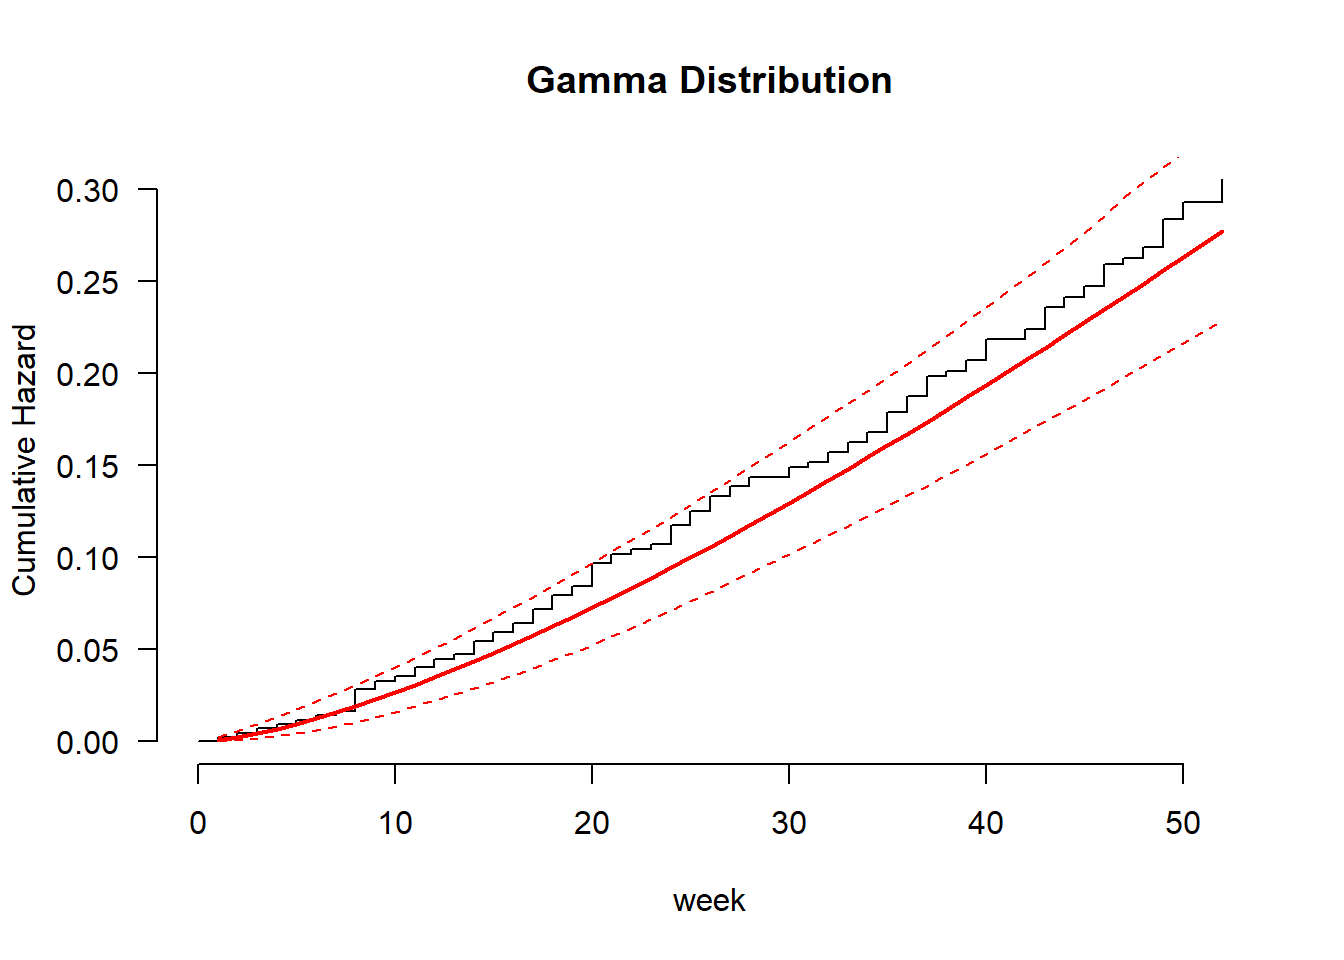
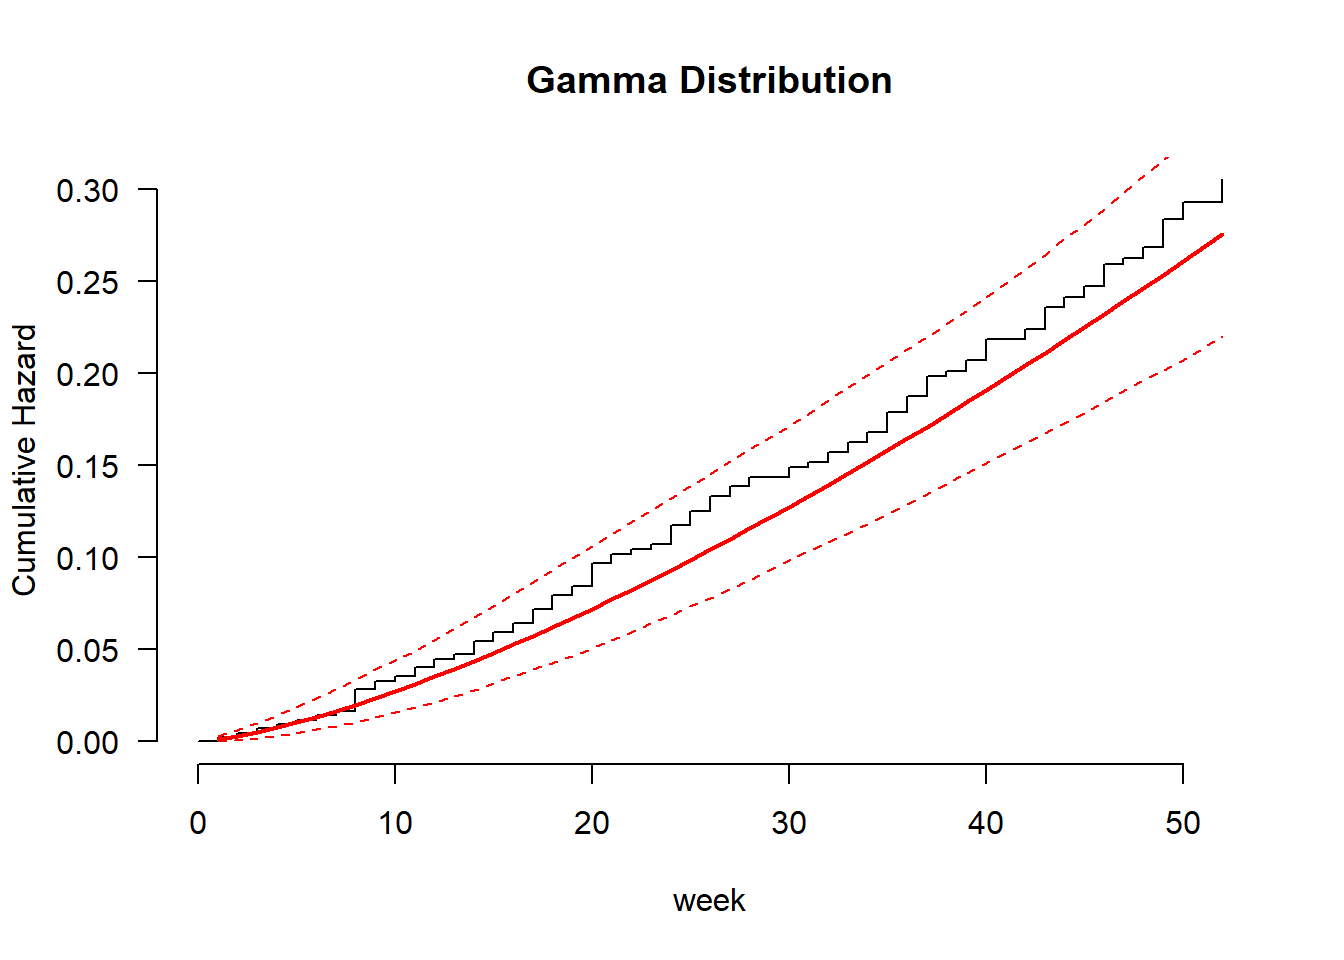
Updating AFT for Generalized Gamma

diff --git a/docs/accelerated-failure-time-models.html b/docs/accelerated-failure-time-models.html
@@ -23,7 +23,7 @@
 <meta name="author" content="Susan Simmons" />
 
 
-<meta name="date" content="2026-01-09" />
+<meta name="date" content="2026-01-14" />
 
   <meta name="viewport" content="width=device-width, initial-scale=1" />
   <meta name="apple-mobile-web-app-capable" content="yes" />
@@ -265,7 +265,7 @@ code span.wa { color: #60a0b0; font-weight: bold; font-style: italic; } /* Warni
 <span id="cb8-3"><a href="accelerated-failure-time-models.html#cb8-3" tabindex="-1"></a><span class="fu">plot</span>(recid.aft.e, <span class="at">type =</span> <span class="st">&quot;cumhaz&quot;</span>, <span class="at">ci =</span> <span class="cn">TRUE</span>, <span class="at">conf.int =</span> <span class="cn">FALSE</span>, <span class="at">las =</span> <span class="dv">1</span>, <span class="at">bty =</span> <span class="st">&quot;n&quot;</span>,</span>
 <span id="cb8-4"><a href="accelerated-failure-time-models.html#cb8-4" tabindex="-1"></a>     <span class="at">xlab =</span> <span class="st">&quot;week&quot;</span>, <span class="at">ylab =</span> <span class="st">&quot;Cumulative Hazard&quot;</span>, <span class="at">main =</span> <span class="st">&quot;Exponential Distribution&quot;</span>)</span></code></pre></div>
 <p><img src="bookdownproj_files/figure-html/AFT-2.png" width="672" /></p>
-<div class="sourceCode" id="cb9"><pre class="sourceCode r"><code class="sourceCode r"><span id="cb9-1"><a href="accelerated-failure-time-models.html#cb9-1" tabindex="-1"></a>recid.aft.g <span class="ot">&lt;-</span> <span class="fu">flexsurvreg</span>(<span class="fu">Surv</span>(week, arrest) <span class="sc">~</span> fin <span class="sc">+</span> age <span class="sc">+</span> race <span class="sc">+</span> wexp <span class="sc">+</span> mar <span class="sc">+</span> paro <span class="sc">+</span> prio, <span class="at">data =</span> recid, <span class="at">dist =</span> <span class="st">&quot;gamma&quot;</span>)</span>
+<div class="sourceCode" id="cb9"><pre class="sourceCode r"><code class="sourceCode r"><span id="cb9-1"><a href="accelerated-failure-time-models.html#cb9-1" tabindex="-1"></a>recid.aft.g <span class="ot">&lt;-</span> <span class="fu">flexsurvreg</span>(<span class="fu">Surv</span>(week, arrest) <span class="sc">~</span> fin <span class="sc">+</span> age <span class="sc">+</span> race <span class="sc">+</span> wexp <span class="sc">+</span> mar <span class="sc">+</span> paro <span class="sc">+</span> prio, <span class="at">data =</span> recid, <span class="at">dist =</span> <span class="st">&quot;gengamma&quot;</span>)</span>
 <span id="cb9-2"><a href="accelerated-failure-time-models.html#cb9-2" tabindex="-1"></a></span>
 <span id="cb9-3"><a href="accelerated-failure-time-models.html#cb9-3" tabindex="-1"></a><span class="fu">plot</span>(recid.aft.g, <span class="at">type =</span> <span class="st">&quot;cumhaz&quot;</span>, <span class="at">ci =</span> <span class="cn">TRUE</span>, <span class="at">conf.int =</span> <span class="cn">FALSE</span>, <span class="at">las =</span> <span class="dv">1</span>, <span class="at">bty =</span> <span class="st">&quot;n&quot;</span>,</span>
 <span id="cb9-4"><a href="accelerated-failure-time-models.html#cb9-4" tabindex="-1"></a>     <span class="at">xlab =</span> <span class="st">&quot;week&quot;</span>, <span class="at">ylab =</span> <span class="st">&quot;Cumulative Hazard&quot;</span>, <span class="at">main =</span> <span class="st">&quot;Gamma Distribution&quot;</span>)</span></code></pre></div>
@@ -285,7 +285,7 @@ code span.wa { color: #60a0b0; font-weight: bold; font-style: italic; } /* Warni
 <span id="cb12-3"><a href="accelerated-failure-time-models.html#cb12-3" tabindex="-1"></a>like.e <span class="ot">=</span> <span class="fu">flexsurvreg</span>(<span class="fu">Surv</span>(week, arrest) <span class="sc">~</span> fin <span class="sc">+</span> age <span class="sc">+</span>  wexp <span class="sc">+</span> mar <span class="sc">+</span> paro <span class="sc">+</span> prio, <span class="at">data =</span> recid, <span class="at">dist =</span> <span class="st">&quot;exp&quot;</span>)<span class="sc">$</span>loglik</span>
 <span id="cb12-4"><a href="accelerated-failure-time-models.html#cb12-4" tabindex="-1"></a>like.w <span class="ot">&lt;-</span> <span class="fu">flexsurvreg</span>(<span class="fu">Surv</span>(week, arrest) <span class="sc">~</span> fin <span class="sc">+</span> age <span class="sc">+</span>  wexp <span class="sc">+</span> mar <span class="sc">+</span> paro <span class="sc">+</span> prio, <span class="at">data =</span> recid, <span class="at">dist =</span> <span class="st">&quot;weibull&quot;</span>)<span class="sc">$</span>loglik</span>
 <span id="cb12-5"><a href="accelerated-failure-time-models.html#cb12-5" tabindex="-1"></a>like.ln <span class="ot">&lt;-</span> <span class="fu">flexsurvreg</span>(<span class="fu">Surv</span>(week, arrest) <span class="sc">~</span> fin <span class="sc">+</span> age <span class="sc">+</span>  wexp <span class="sc">+</span> mar <span class="sc">+</span> paro <span class="sc">+</span> prio, <span class="at">data =</span> recid, <span class="at">dist =</span> <span class="st">&quot;lnorm&quot;</span>)<span class="sc">$</span>loglik</span>
-<span id="cb12-6"><a href="accelerated-failure-time-models.html#cb12-6" tabindex="-1"></a>like.g <span class="ot">=</span> <span class="fu">flexsurvreg</span>(<span class="fu">Surv</span>(week, arrest) <span class="sc">~</span> fin <span class="sc">+</span> age  <span class="sc">+</span> wexp <span class="sc">+</span> mar <span class="sc">+</span> paro <span class="sc">+</span> prio, <span class="at">data =</span> recid, <span class="at">dist =</span> <span class="st">&quot;gamma&quot;</span>)<span class="sc">$</span>loglik</span>
+<span id="cb12-6"><a href="accelerated-failure-time-models.html#cb12-6" tabindex="-1"></a>like.g <span class="ot">=</span> <span class="fu">flexsurvreg</span>(<span class="fu">Surv</span>(week, arrest) <span class="sc">~</span> fin <span class="sc">+</span> age  <span class="sc">+</span> wexp <span class="sc">+</span> mar <span class="sc">+</span> paro <span class="sc">+</span> prio, <span class="at">data =</span> recid, <span class="at">dist =</span> <span class="st">&quot;gengamma&quot;</span>)<span class="sc">$</span>loglik</span>
 <span id="cb12-7"><a href="accelerated-failure-time-models.html#cb12-7" tabindex="-1"></a>like.ll <span class="ot">=</span> <span class="fu">flexsurvreg</span>(<span class="fu">Surv</span>(week, arrest) <span class="sc">~</span> fin <span class="sc">+</span> age  <span class="sc">+</span> wexp <span class="sc">+</span> mar <span class="sc">+</span> paro <span class="sc">+</span> prio, <span class="at">data =</span> recid, <span class="at">dist =</span> <span class="st">&quot;llogis&quot;</span>)<span class="sc">$</span>loglik</span>
 <span id="cb12-8"><a href="accelerated-failure-time-models.html#cb12-8" tabindex="-1"></a>like.f <span class="ot">=</span> <span class="fu">flexsurvreg</span>(<span class="fu">Surv</span>(week, arrest) <span class="sc">~</span> fin <span class="sc">+</span> age  <span class="sc">+</span> wexp <span class="sc">+</span> mar <span class="sc">+</span> paro <span class="sc">+</span> prio, <span class="at">data =</span> recid, <span class="at">dist =</span> <span class="st">&quot;genf&quot;</span>)<span class="sc">$</span>loglik</span></code></pre></div>
 <pre><code>## Warning in .hess_to_cov(opt$hessian, hess.control$tol.solve,
@@ -304,9 +304,9 @@ code span.wa { color: #60a0b0; font-weight: bold; font-style: italic; } /* Warni
 <span id="cb14-8"><a href="accelerated-failure-time-models.html#cb14-8" tabindex="-1"></a>P_values <span class="ot">=</span> <span class="fu">c</span>(pval.e.g, pval.w.g, pval.ln.g)</span>
 <span id="cb14-9"><a href="accelerated-failure-time-models.html#cb14-9" tabindex="-1"></a><span class="fu">cbind</span>(Tests, P_values)</span></code></pre></div>
 <pre><code>##      Tests          P_values             
-## [1,] &quot;Exp vs. Gam&quot;  &quot;0.00194259347065306&quot;
-## [2,] &quot;Wei vs. Gam&quot;  &quot;1&quot;                  
-## [3,] &quot;LogN vs. Gam&quot; &quot;0.00767095999547838&quot;</code></pre>
+## [1,] &quot;Exp vs. Gam&quot;  &quot;0.00161324793478121&quot;
+## [2,] &quot;Wei vs. Gam&quot;  &quot;0.845167010121458&quot;  
+## [3,] &quot;LogN vs. Gam&quot; &quot;0.00623785423895664&quot;</code></pre>
 <div class="sourceCode" id="cb16"><pre class="sourceCode r"><code class="sourceCode r"><span id="cb16-1"><a href="accelerated-failure-time-models.html#cb16-1" tabindex="-1"></a><span class="co"># Predicted Survival Quantiles </span></span>
 <span id="cb16-2"><a href="accelerated-failure-time-models.html#cb16-2" tabindex="-1"></a>recid.aft.w <span class="ot">=</span> <span class="fu">survreg</span>(<span class="fu">Surv</span>(week, arrest) <span class="sc">~</span> fin <span class="sc">+</span> age <span class="sc">+</span>prio, <span class="at">data =</span> recid, <span class="at">dist =</span> <span class="st">&#39;weibull&#39;</span>)</span>
 <span id="cb16-3"><a href="accelerated-failure-time-models.html#cb16-3" tabindex="-1"></a><span class="fu">summary</span>(recid.aft.w)</span></code></pre></div>
@@ -449,7 +449,7 @@ code span.wa { color: #60a0b0; font-weight: bold; font-style: italic; } /* Warni
 ##    number of observations = 432
 ## number of events observed = 114
 ##            log-likelihood = -680.485
-##          time fit was run = 2026-01-09 17:24:55 UTC
+##          time fit was run = 2026-01-14 18:54:15 UTC
 ## 
 ## ---
 ##                     coef exp(coef)  se(coef)  coef lower 95%  coef upper 95% exp(coef) lower 95% exp(coef) upper 95%
@@ -497,7 +497,7 @@ code span.wa { color: #60a0b0; font-weight: bold; font-style: italic; } /* Warni
 ##    number of observations = 432
 ## number of events observed = 114
 ##            log-likelihood = -680.725
-##          time fit was run = 2026-01-09 17:24:56 UTC
+##          time fit was run = 2026-01-14 18:54:18 UTC
 ## 
 ## ---
 ##                    coef exp(coef)  se(coef)  coef lower 95%  coef upper 95% exp(coef) lower 95% exp(coef) upper 95%
@@ -542,7 +542,7 @@ code span.wa { color: #60a0b0; font-weight: bold; font-style: italic; } /* Warni
 ##    number of observations = 432
 ## number of events observed = 114
 ##            log-likelihood = -684.206
-##          time fit was run = 2026-01-09 17:24:57 UTC
+##          time fit was run = 2026-01-14 18:54:19 UTC
 ## 
 ## ---
 ##                    coef exp(coef)  se(coef)  coef lower 95%  coef upper 95% exp(coef) lower 95% exp(coef) upper 95%

diff --git a/docs/404.html b/docs/404.html
@@ -23,7 +23,7 @@
 <meta name="author" content="Susan Simmons" />
 
 
-<meta name="date" content="2026-01-09" />
+<meta name="date" content="2026-01-14" />
 
   <meta name="viewport" content="width=device-width, initial-scale=1" />
   <meta name="apple-mobile-web-app-capable" content="yes" />
